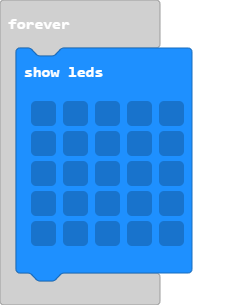
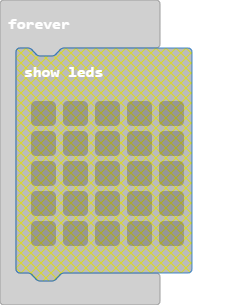
Update main.blocks, main.ts

diff --git a/main.ts b/main.ts
@@ -1,9 +1,3 @@
 basic.forever(function () {
-    basic.showLeds(`
-        . . . . .
-        . . . . .
-        . . . . .
-        . . . . .
-        . . . . .
-        `)
+	
 })
